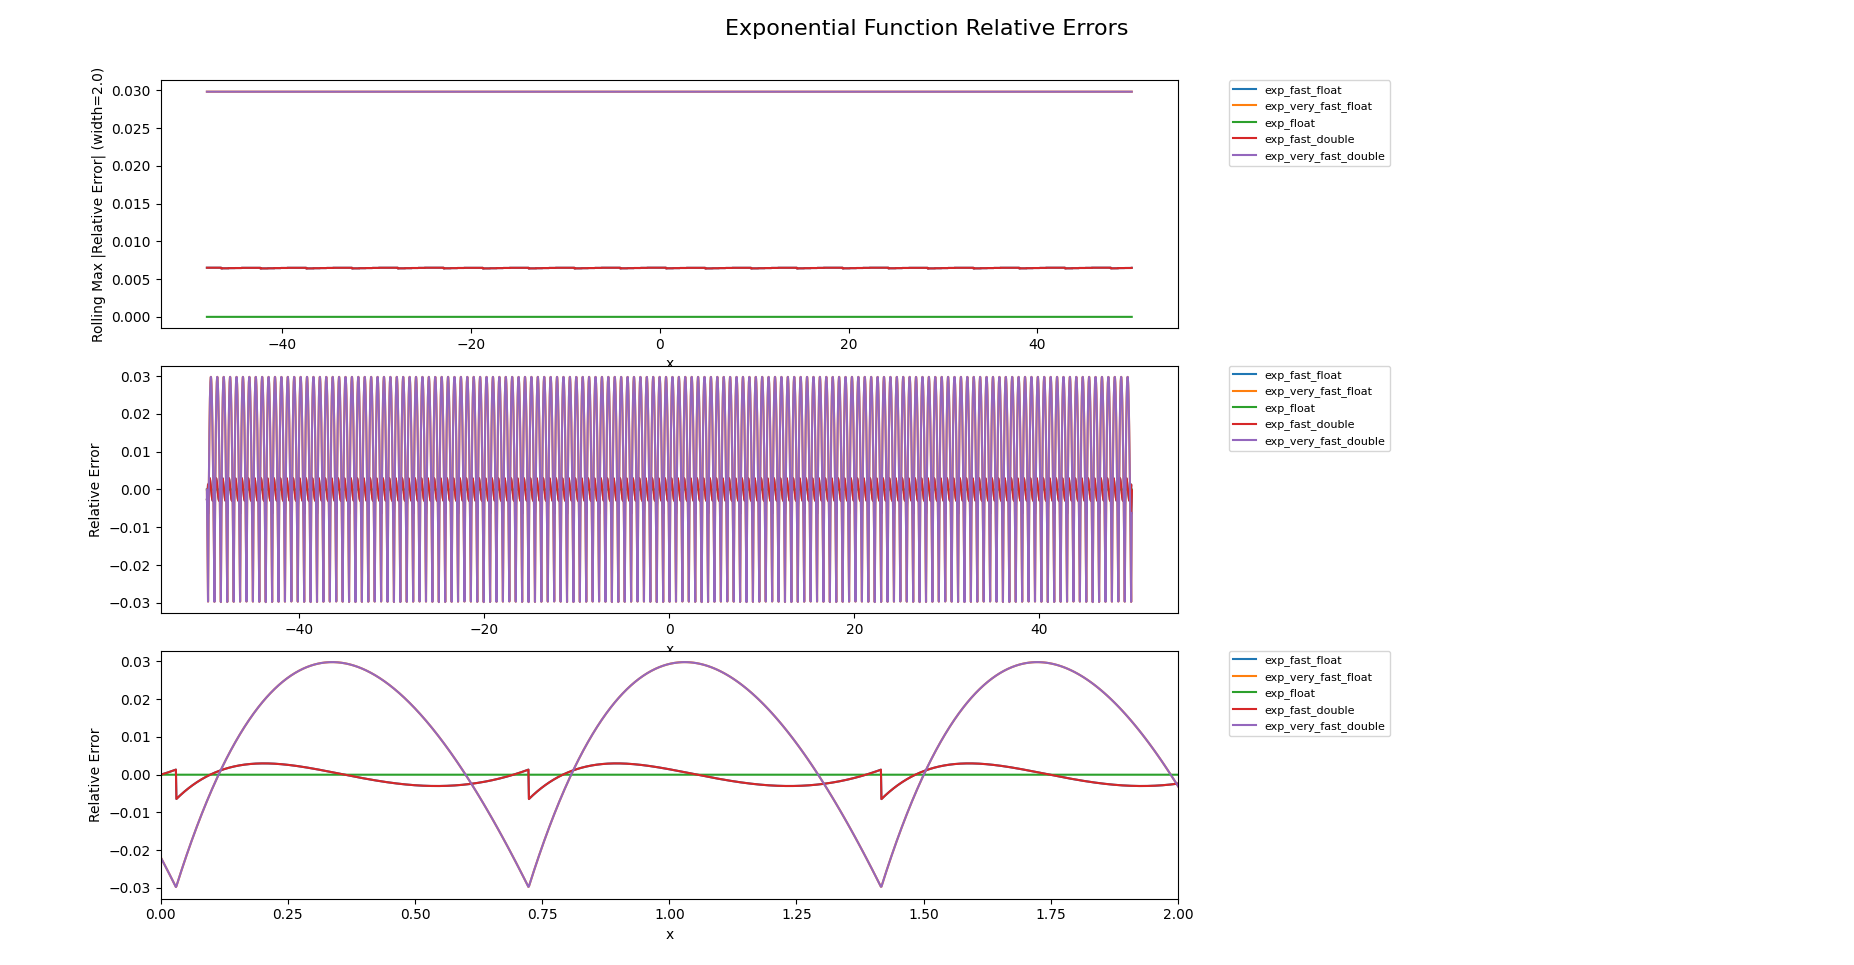
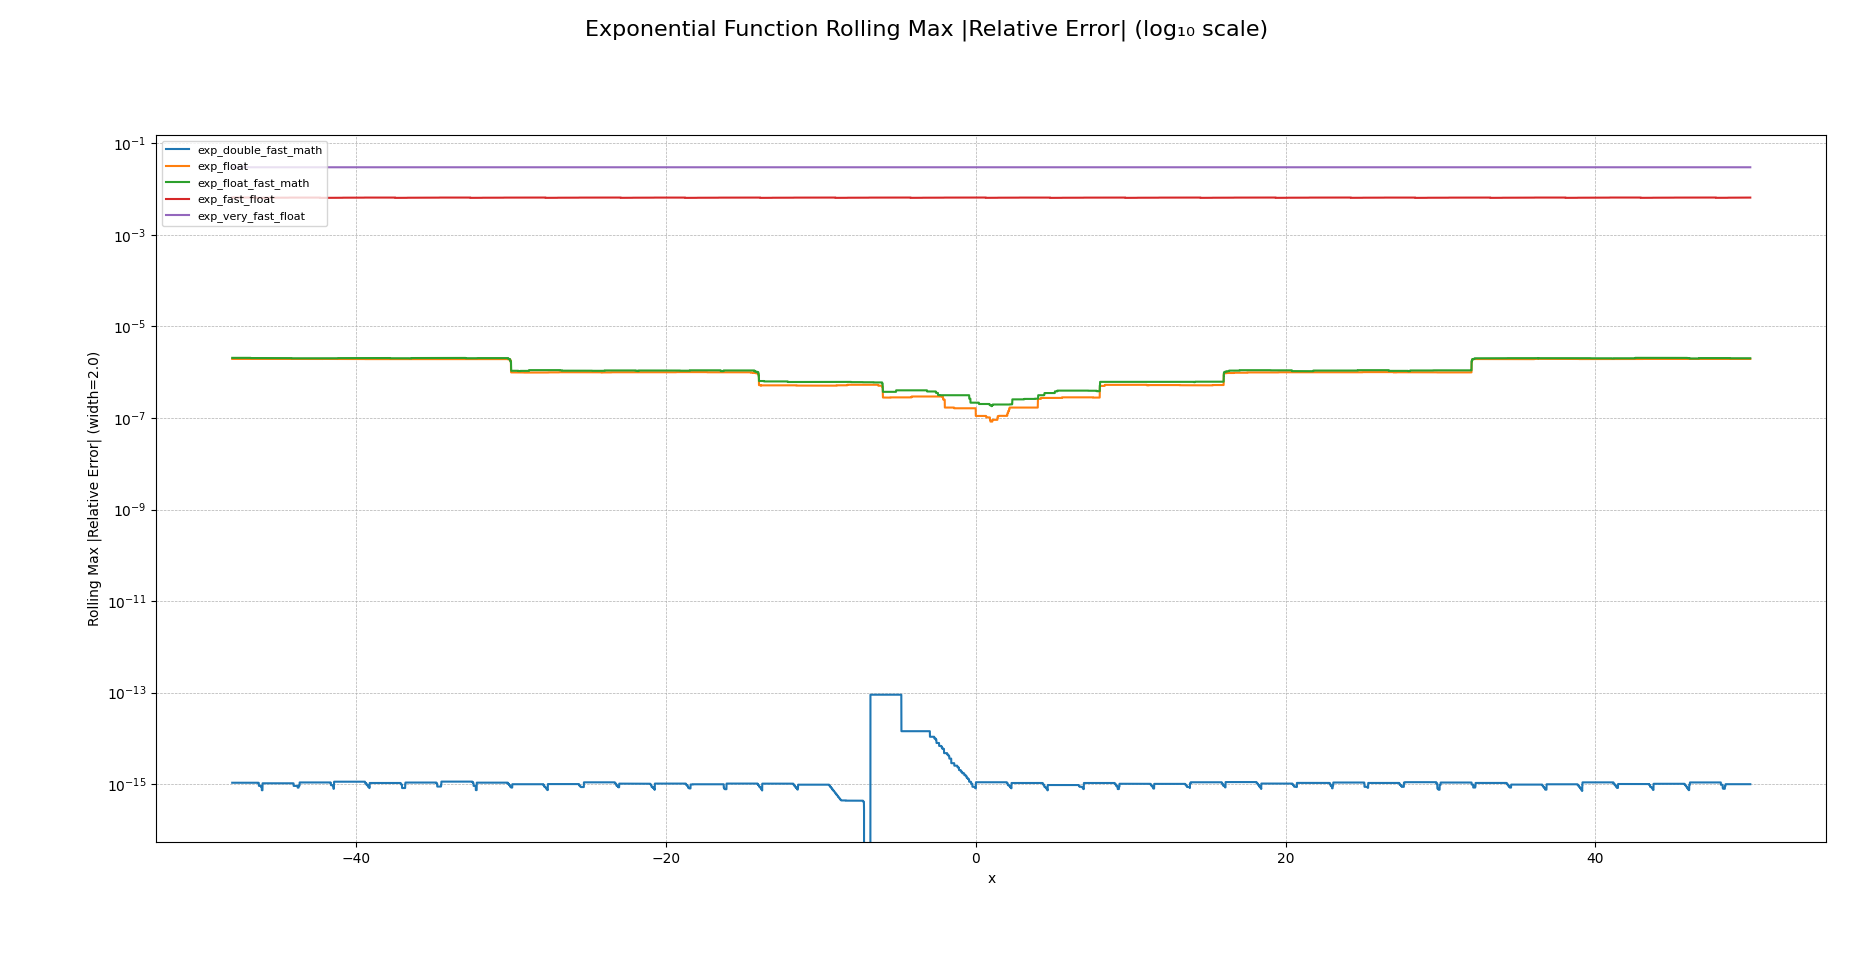
update

diff --git a/plot-numeric-accuracy.py b/plot-numeric-accuracy.py
@@ -9,26 +9,29 @@ def main():
     df = df.apply(pd.to_numeric, errors="coerce")  # convert all columns to numeric
 
     # Columns
-    float_cols = ["exp_fast_float", "exp_very_fast_float"]
-    double_cols = ["exp_float", "exp_fast_double", "exp_very_fast_double"]
-    all_cols = float_cols + double_cols
+    all_cols = [
+        "exp_double_fast_math",
+        "exp_float",
+        "exp_float_fast_math",
+        "exp_fast_float",
+        "exp_very_fast_float",
+    ]
 
     # Compute relative errors
-    for col in float_cols:
-        df[f"{col}_rerr"] = (df[col] - df["exp_float"]) / df["exp_float"]
-    for col in double_cols:
+    for col in all_cols:
         df[f"{col}_rerr"] = (df[col] - df["exp_double"]) / df["exp_double"]
 
     # Determine rolling window size in samples for rolling max
-    x_spacing = df["x_float"].iloc[1] - df["x_float"].iloc[0]  # uniform spacing
+    x_spacing = df["x"].iloc[1] - df["x"].iloc[0]  # assume uniform spacing
     width = 2.0  # desired window width in x units
     window_size = max(1, int(width / x_spacing))  # at least 1 sample
 
-    # Create figure with three subplots
-    fig, axes = plt.subplots(3, 1, figsize=(10, 15))
-    fig.suptitle("Exponential Function Relative Errors", fontsize=16)
+    # --- Single plot: Rolling max of |relative error| ---
+    fig, ax = plt.subplots(figsize=(10, 6))
+    fig.suptitle(
+        "Exponential Function Rolling Max |Relative Error| (log₁₀ scale)", fontsize=16
+    )
 
-    # --- Top plot: rolling max of absolute relative error ---
     for col in all_cols:
         rolling_max = (
             df[f"{col}_rerr"]
@@ -36,45 +39,14 @@ def main():
             .rolling(window=window_size, min_periods=window_size)
             .max()
         )
-        axes[0].plot(df["x_float"], rolling_max, label=col)
-    axes[0].set_xlabel("x")
-    axes[0].set_ylabel(f"Rolling Max |Relative Error| (width={width})")
-    axes[0].legend(
-        bbox_to_anchor=(1.05, 1),
-        loc="upper left",
-        fontsize=8,
-        borderaxespad=0,
-        frameon=True,
-    )
+        ax.plot(df["x"], rolling_max, label=col)
 
-    # --- Middle plot: original raw relative error ---
-    for col in all_cols:
-        axes[1].plot(df["x_float"], df[f"{col}_rerr"], label=col)
-    axes[1].set_xlabel("x")
-    axes[1].set_ylabel("Relative Error")
-    axes[1].legend(
-        bbox_to_anchor=(1.05, 1),
-        loc="upper left",
-        fontsize=8,
-        borderaxespad=0,
-        frameon=True,
-    )
-
-    # --- Bottom plot: zoomed-in x ∈ [0, 2] ---
-    for col in all_cols:
-        axes[2].plot(df["x_float"], df[f"{col}_rerr"], label=col)
-    axes[2].set_xlim(0, 2)
-    axes[2].set_xlabel("x")
-    axes[2].set_ylabel("Relative Error")
-    axes[2].legend(
-        bbox_to_anchor=(1.05, 1),
-        loc="upper left",
-        fontsize=8,
-        borderaxespad=0,
-        frameon=True,
-    )
-
-    plt.tight_layout(rect=[0, 0.03, 0.85, 0.95])
+    ax.set_xlabel("x")
+    ax.set_ylabel(f"Rolling Max |Relative Error| (width={width})")
+    ax.set_yscale("log")
+    ax.legend(fontsize=8, loc="upper left")
+    ax.grid(True, which="both", linestyle="--", linewidth=0.5)
+    plt.tight_layout(rect=[0, 0.03, 1, 0.95])
     plt.show()
 
 

diff --git a/csv.cpp b/csv.cpp
@@ -2,23 +2,43 @@
 
 #include <iomanip>
 #include <iostream>
+#include <vector>
 
 constexpr double min = -50;
 constexpr double max = 50;
 constexpr double step = 0.001;
 constexpr auto max_precision{std::numeric_limits<double>::digits10 + 1};
 
+void exp_fastmath(float const* x, std::size_t size, float* out);
+void exp_fastmath(double const* x, std::size_t size, double* out);
+
+template <typename T>
+T exp_fastmath(T x)
+{
+    std::vector<T> data(1024);
+    std::vector<T> output(1024);
+    for (int i = 0; i < data.size(); ++i) {
+        data[i] = i;
+    }
+    data[42] = x;
+    exp_fastmath(data.data(), data.size(), output.data());
+    return output[42];
+    ;
+}
+
 int main()
 {
-    std::cout << "x_float,exp_float,exp_fast_float,exp_very_fast_float,"
-                 "x_double,exp_double,exp_fast_double,exp_very_fast_double\n";
+    std::cout << "x,exp_float,exp_double,exp_fast_float,exp_very_fast_float,";
+    std::cout << "exp_float_fast_math,exp_double_fast_math\n";
     for (double x = min; x < max; x += step) {
         float fx = x;
-        std::cout << fx << ',' << std::exp(fx) << ',' << fast_exp(fx) << ','
-                  << very_fast_exp(fx) << ',';
-        std::cout << std::setprecision(max_precision) << x << ',' << std::exp(x)
-                  << ',' << static_cast<double>(fast_exp(x)) << ','
-                  << static_cast<double>(very_fast_exp(x));
+        std::cout << std::setprecision(max_precision) << x;
+        std::cout << ',' << std::exp(fx);
+        std::cout << ',' << std::exp(x);
+        std::cout << ',' << fast_exp(fx);
+        std::cout << ',' << very_fast_exp(fx);
+        std::cout << ',' << exp_fastmath(fx);
+        std::cout << ',' << exp_fastmath(x);
         std::cout << '\n';
     }
     std::cout << std::flush;

diff --git a/csv_fm.cpp b/csv_fm.cpp
@@ -1,0 +1,13 @@
+#include <cmath>
+
+void exp_fastmath(float const* x, std::size_t size, float* out)
+{
+    for (auto i = 0ul; i < size; ++i)
+        out[i] = std::exp(x[i]);
+}
+
+void exp_fastmath(double const* x, std::size_t size, double* out)
+{
+    for (auto i = 0ul; i < size; ++i)
+        out[i] = std::exp(x[i]);
+}
